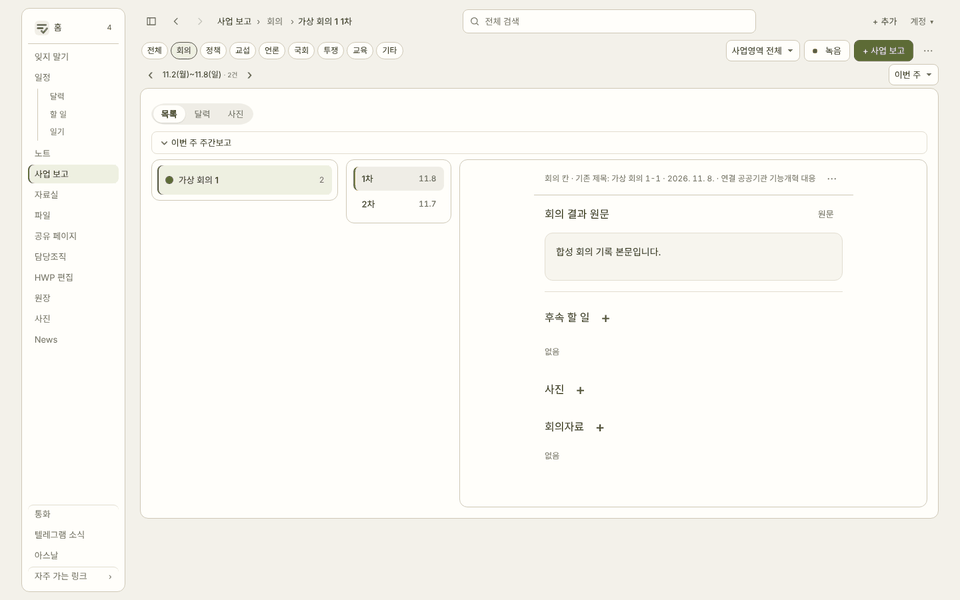
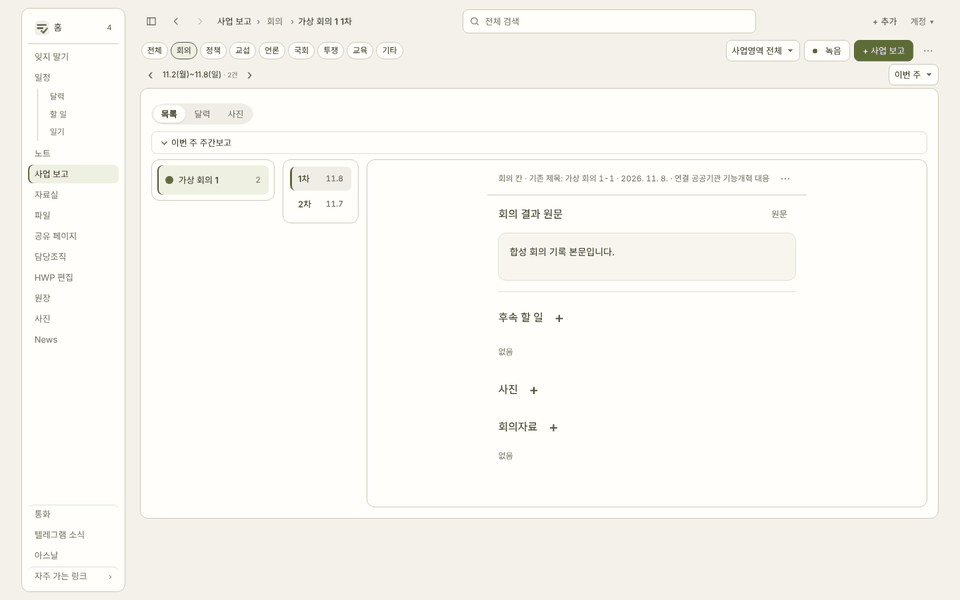
[시안] 사업 보고: 3단 기본 비율을 1.3 : 0.8 : 5.9로(결과 칸이 왼쪽 두 칸의 2.6배 이상이라는 기존 기준 유지), 시험 맞춤
browser-e2e 5/8 실패 고침: meeting-columns 결과 칸 비율 기준(2.6배·2배)과
meeting-split-resize Home 키 최소 폭(150px) 기대값.

Claude-Session: https://claude.ai/code/session_018yqVMx6JfHRjcSxKMZuHeL

diff --git a/app/team.js b/app/team.js
@@ -287,7 +287,7 @@ for(const name of ['kptu:report-detail-ready','kptu:report-pane-free'])window.ad
 function meetingWhere(m){const round=m&&(reportKindOf(m)===DEFAULT_KIND||hasRound(m)||meetingShortName(m))?roundLabel(m):'';window.dispatchEvent(new CustomEvent('kptu:where-item',{detail:{view:'meetings',name:m?[meetingName(m)||'이름 없음',round].filter(Boolean).join(' '):null,trail:m?[{name:reportChip===ALL_KINDS?'전체':reportKindLabel(reportChip),step:'chip:'+reportChip}]:[]}}))}
 // UI-상단줄중간단계(S48-30): 위쪽 줄 '사업 보고 › 칸 › 항목'의 칸을 누르면 그 칸 칩으로(같은 칸이면 칩 줄의 그 칩에 초점).
 window.addEventListener('kptu:where-step',e=>{if(e.detail?.view!=='meetings')return;const step=String(e.detail?.step||'');if(!step.startsWith('chip:'))return;const chip=step.slice(5);if(!isReportChip(chip))return;if(chip!==reportChip){selectReportChip(chip);return}const b=[...document.querySelectorAll('#reportKindFilter button')].find(x=>x.getAttribute('aria-checked')==='true'||x.getAttribute('aria-pressed')==='true');(b?.offsetParent?b:$('#reportKindSelect'))?.focus({preventScroll:false})});
-function renderMeetingColumns(box,{resetList=false,resetResult=resetList}={}){const columns=meetingColumnList(),selected=selectedMeetingColumn(columns);meetingSelectedKind=selected?.key??null;const current=pickMeeting(selected,meetingSelectedId);meetingSelectedId=current?.id??null;meetingWhere(current);const active=document.activeElement?.closest?.('#meetingList')?document.activeElement:null,focusKey=active?{kind:active.dataset.meetingKind,round:active.dataset.meetingRound}:null;const handleAt=active?.classList?.contains('split-resize-handle')?[...box.querySelectorAll('.split-resize-handle')].indexOf(active):-1;const kindsTop=box.querySelector('.mcol-kinds')?.scrollTop||0,listTop=resetList?0:box.querySelector('.mcol-cards')?.scrollTop||0;box.innerHTML=columnsHtml(columns,{selectedKey:meetingSelectedKind,selectedId:meetingSelectedId,colorOf:meetingColor,whenOf:whenText,resultHtml:meetingResult});const kinds=box.querySelector('.mcol-kinds'),list=box.querySelector('.mcol-cards');if(kinds)kinds.scrollTop=kindsTop;if(list)list.scrollTop=listTop;const layout=box.querySelector('.mcol-layout');const split=layout?mountSplitResize({container:layout,name:'reports3',inherit:'reports',label:'사업 보고 칸 폭 조절',columns:[{el:()=>box.querySelector('.mcol-kinds'),varName:'--ds-split-col-a',minVar:'--ds-split-col-min',minFallback:150,share:1.6,id:'mcolRounds'},{el:()=>box.querySelector('.mcol-rounds'),varName:'--ds-split-col-b',minVar:'--ds-split-col-b-min',minFallback:96,share:.9,id:'mcolResult'},{el:()=>box.querySelector('.mcol-result'),varName:'--ds-split-col-c',minVar:'--ds-split-detail-min',minFallback:360,share:4}],active:()=>!!meetingPc?.matches&&reportChip===DEFAULT_KIND&&box.contains(layout)}):null;if(handleAt>=0)split?.handles[handleAt]?.focus({preventScroll:true});if(focusKey){const [attr,value]=focusKey.kind!=null?['data-meeting-kind',focusKey.kind]:focusKey.round!=null?['data-meeting-round',focusKey.round]:[];if(attr){const el=[...box.querySelectorAll(`[${attr}]`)].find(e=>e.getAttribute(attr)===value);el?.focus({preventScroll:true})}}followResult(box,resetList);dockReport()}
+function renderMeetingColumns(box,{resetList=false,resetResult=resetList}={}){const columns=meetingColumnList(),selected=selectedMeetingColumn(columns);meetingSelectedKind=selected?.key??null;const current=pickMeeting(selected,meetingSelectedId);meetingSelectedId=current?.id??null;meetingWhere(current);const active=document.activeElement?.closest?.('#meetingList')?document.activeElement:null,focusKey=active?{kind:active.dataset.meetingKind,round:active.dataset.meetingRound}:null;const handleAt=active?.classList?.contains('split-resize-handle')?[...box.querySelectorAll('.split-resize-handle')].indexOf(active):-1;const kindsTop=box.querySelector('.mcol-kinds')?.scrollTop||0,listTop=resetList?0:box.querySelector('.mcol-cards')?.scrollTop||0;box.innerHTML=columnsHtml(columns,{selectedKey:meetingSelectedKind,selectedId:meetingSelectedId,colorOf:meetingColor,whenOf:whenText,resultHtml:meetingResult});const kinds=box.querySelector('.mcol-kinds'),list=box.querySelector('.mcol-cards');if(kinds)kinds.scrollTop=kindsTop;if(list)list.scrollTop=listTop;const layout=box.querySelector('.mcol-layout');const split=layout?mountSplitResize({container:layout,name:'reports3',inherit:'reports',label:'사업 보고 칸 폭 조절',columns:[{el:()=>box.querySelector('.mcol-kinds'),varName:'--ds-split-col-a',minVar:'--ds-split-col-min',minFallback:150,share:1.3,id:'mcolRounds'},{el:()=>box.querySelector('.mcol-rounds'),varName:'--ds-split-col-b',minVar:'--ds-split-col-b-min',minFallback:96,share:.8,id:'mcolResult'},{el:()=>box.querySelector('.mcol-result'),varName:'--ds-split-col-c',minVar:'--ds-split-detail-min',minFallback:360,share:5.9}],active:()=>!!meetingPc?.matches&&reportChip===DEFAULT_KIND&&box.contains(layout)}):null;if(handleAt>=0)split?.handles[handleAt]?.focus({preventScroll:true});if(focusKey){const [attr,value]=focusKey.kind!=null?['data-meeting-kind',focusKey.kind]:focusKey.round!=null?['data-meeting-round',focusKey.round]:[];if(attr){const el=[...box.querySelectorAll(`[${attr}]`)].find(e=>e.getAttribute(attr)===value);el?.focus({preventScroll:true})}}followResult(box,resetList);dockReport()}
 function renderReportList(box,{resetList=false,resetResult=resetList}={}){const rows=sortRecentFirst(reportRows()),current=rows.find(m=>String(m.id)===String(meetingSelectedId))||rows[0]||null;meetingSelectedId=current?.id??null;meetingWhere(current);const active=document.activeElement?.closest?.('#meetingList')?document.activeElement:null,focusKey=active?{round:active.dataset.meetingRound}:null;const listTop=resetList?0:box.querySelector('.mcol-cards')?.scrollTop||0;box.innerHTML=listHtml(rows,{selectedId:meetingSelectedId,label:reportChip===ALL_KINDS?'전체':reportKindLabel(reportChip),nameOf:m=>meetingName(m)||'이름 없음',kindOf:m=>[reportChip===ALL_KINDS?reportKindLabel(reportKindOf(m)):'',areaNameOf(m)].filter(Boolean).join(' · '),colorOf:m=>meetingColor(meetingName(m)),whenOf:whenText,resultHtml:m=>meetingResult(m,{kindName:meetingName(m)||'이름 없음'})});const layout=box.querySelector('.mcol-layout'),list=box.querySelector('.mcol-cards');if(list)list.scrollTop=listTop;if(layout)mountSplitResize({container:layout,name:'reports',label:'사업 보고 목록과 결과 칸 폭 조절',controls:'mcolRounds',list:()=>box.querySelector('.mcol-rounds'),pane:()=>box.querySelector('.mcol-result'),active:()=>!!meetingPc?.matches&&reportChip!==DEFAULT_KIND&&box.contains(layout)});if(focusKey){const [attr,value]=focusKey.round!=null?['data-meeting-round',focusKey.round]:[];if(attr)[...box.querySelectorAll(`[${attr}]`)].find(e=>e.getAttribute(attr)===value)?.focus({preventScroll:true})}followResult(box,resetList);dockReport()}
 // UI-칸안스크롤하나로(시안 A): PC는 화면 스크롤 하나. 오른쪽 결과 칸은 화면에 붙어 따라오고(follow-pane.js), 다른 종류·목록으로 바꾸면(resetList)
 // 칸들 머리가 화면 위로 지나가 있을 때 칸 머리로 올려 가운데 목록을 맨 위부터 보여 준다.

diff --git a/app/theme-tokens.css b/app/theme-tokens.css
@@ -104,7 +104,7 @@
   /* UI-칸폭조절(2026-10-22): 경계선을 끌어 바꿀 때 오른쪽 상세 칸의 최소 폭(왼쪽은 --ds-split-list-min). split-resize.js가 읽는다. */
   --ds-split-detail-min:360px;
   /* MTG-3칸폭끌기(2026-10-26): 3단 화면(사업 보고)의 칸 폭 — 왼쪽 두 칸의 최소 폭과 기본 비율 1 : 1 : 4(= 1/6 : 1/6 : 2/3). split-resize.js가 끌어서 바꾼 값을 fr로 덮어쓴다. */
-  --ds-split-col-min:150px;--ds-split-col-b-min:96px;--ds-split-col-a:1.6fr;--ds-split-col-b:.9fr;--ds-split-col-c:4fr; /* S52-34 UI-전체정리(사업 보고): 회의 이름·차수 날짜가 "가상 회…"·"1…"로 잘리지 않게 기본 폭·최소 폭을 넓힘 */
+  --ds-split-col-min:150px;--ds-split-col-b-min:96px;--ds-split-col-a:1.3fr;--ds-split-col-b:.8fr;--ds-split-col-c:5.9fr; /* S52-34 UI-전체정리(사업 보고): 회의 이름·차수 날짜가 "가상 회…"·"1…"로 잘리지 않게 기본 폭·최소 폭을 넓힘(결과 칸은 여전히 왼쪽 두 칸의 2.6배 이상) */
   --ds-compact-height:32px;--ds-compact-pad-x:12px;--ds-compact-text:13px;--ds-chip-radius:999px;
   /* UI-버튼작게(2026-10-18 사용자 결정): 쓰기 창 서식 도구줄 버튼은 한 단계 더 작게 28px(누르는 범위는 그대로 44px). */
   --ds-compact-height-sm:28px;

diff --git a/docs/mockups/ui-cleanup/README.md b/docs/mockups/ui-cleanup/README.md
@@ -53,7 +53,7 @@
 | 일정/달력 | 남은 것 없음(C3·F05·F16 결정대로 됨) | 없음 | — |
 | 할 일 | 폴드 884에서 왼쪽 목록이 약 240px로 좁아 할 일 제목이 '가상 할 일 회의…'로 잘림 | PC 틀(761px~) 할 일 목록 최소 폭 240→300px(넓은 PC는 1/3이 이미 300px보다 넓어 그대로, 좁은 PC 1024도 300px. 끌어 바꾼 비율·서버 기억 그대로) | tasks-884 |
 | 담당조직 | 상세 맨 위 [쟁의 단계 ▾] 다음 날짜 칸이 줄 폭을 다 차지해 [~ 끝 날짜]가 혼자 셋째 줄 | [쟁의 단계 ▾][날짜][~ 끝 날짜] 한 줄(폰은 좁으면 자연 줄바꿈) | team-884·1440 |
-| 사업 보고 | PC·폴드 3단에서 회의 이름 칸이 '가상 회…', 차수 칸이 '1…'로 잘림(기본 1 : 0.5 : 4.5) | 기본 1.6 : 0.9 : 4, 최소 150·96px. 끌기·서버 기억 그대로 | meetings-884·1440 |
+| 사업 보고 | PC·폴드 3단에서 회의 이름 칸이 '가상 회…', 차수 칸이 '1…'로 잘림(기본 1 : 0.5 : 4.5) | 기본 1.3 : 0.8 : 5.9(결과 칸은 그대로 왼쪽 두 칸의 2.6배 이상), 최소 150·96px. 끌기·서버 기억 그대로 | meetings-884·1440 |
 | 주간 정리 | ① 머리줄 '11월 2일 ~ 8일' 바로 아래 '주간 정리 · 11월 2일 월요일 ~ 11월 8일 일요일' 줄이 또 있음(중복 제목) ② PC '■ 일시 … ⋯' 줄이 두 칸 중 왼쪽 칸에만 있어 ⋯이 화면 가운데 | ① 그 줄은 읽기 프로그램용으로만 남김(초점 자리 유지) ② 그 줄을 두 칸 폭 전체로, ⋯은 오른쪽 끝 | weekly-412·884·1440 |
 
 ## 3. 고르지 않은 다음 후보(그림 없음, 명진 판단용)
